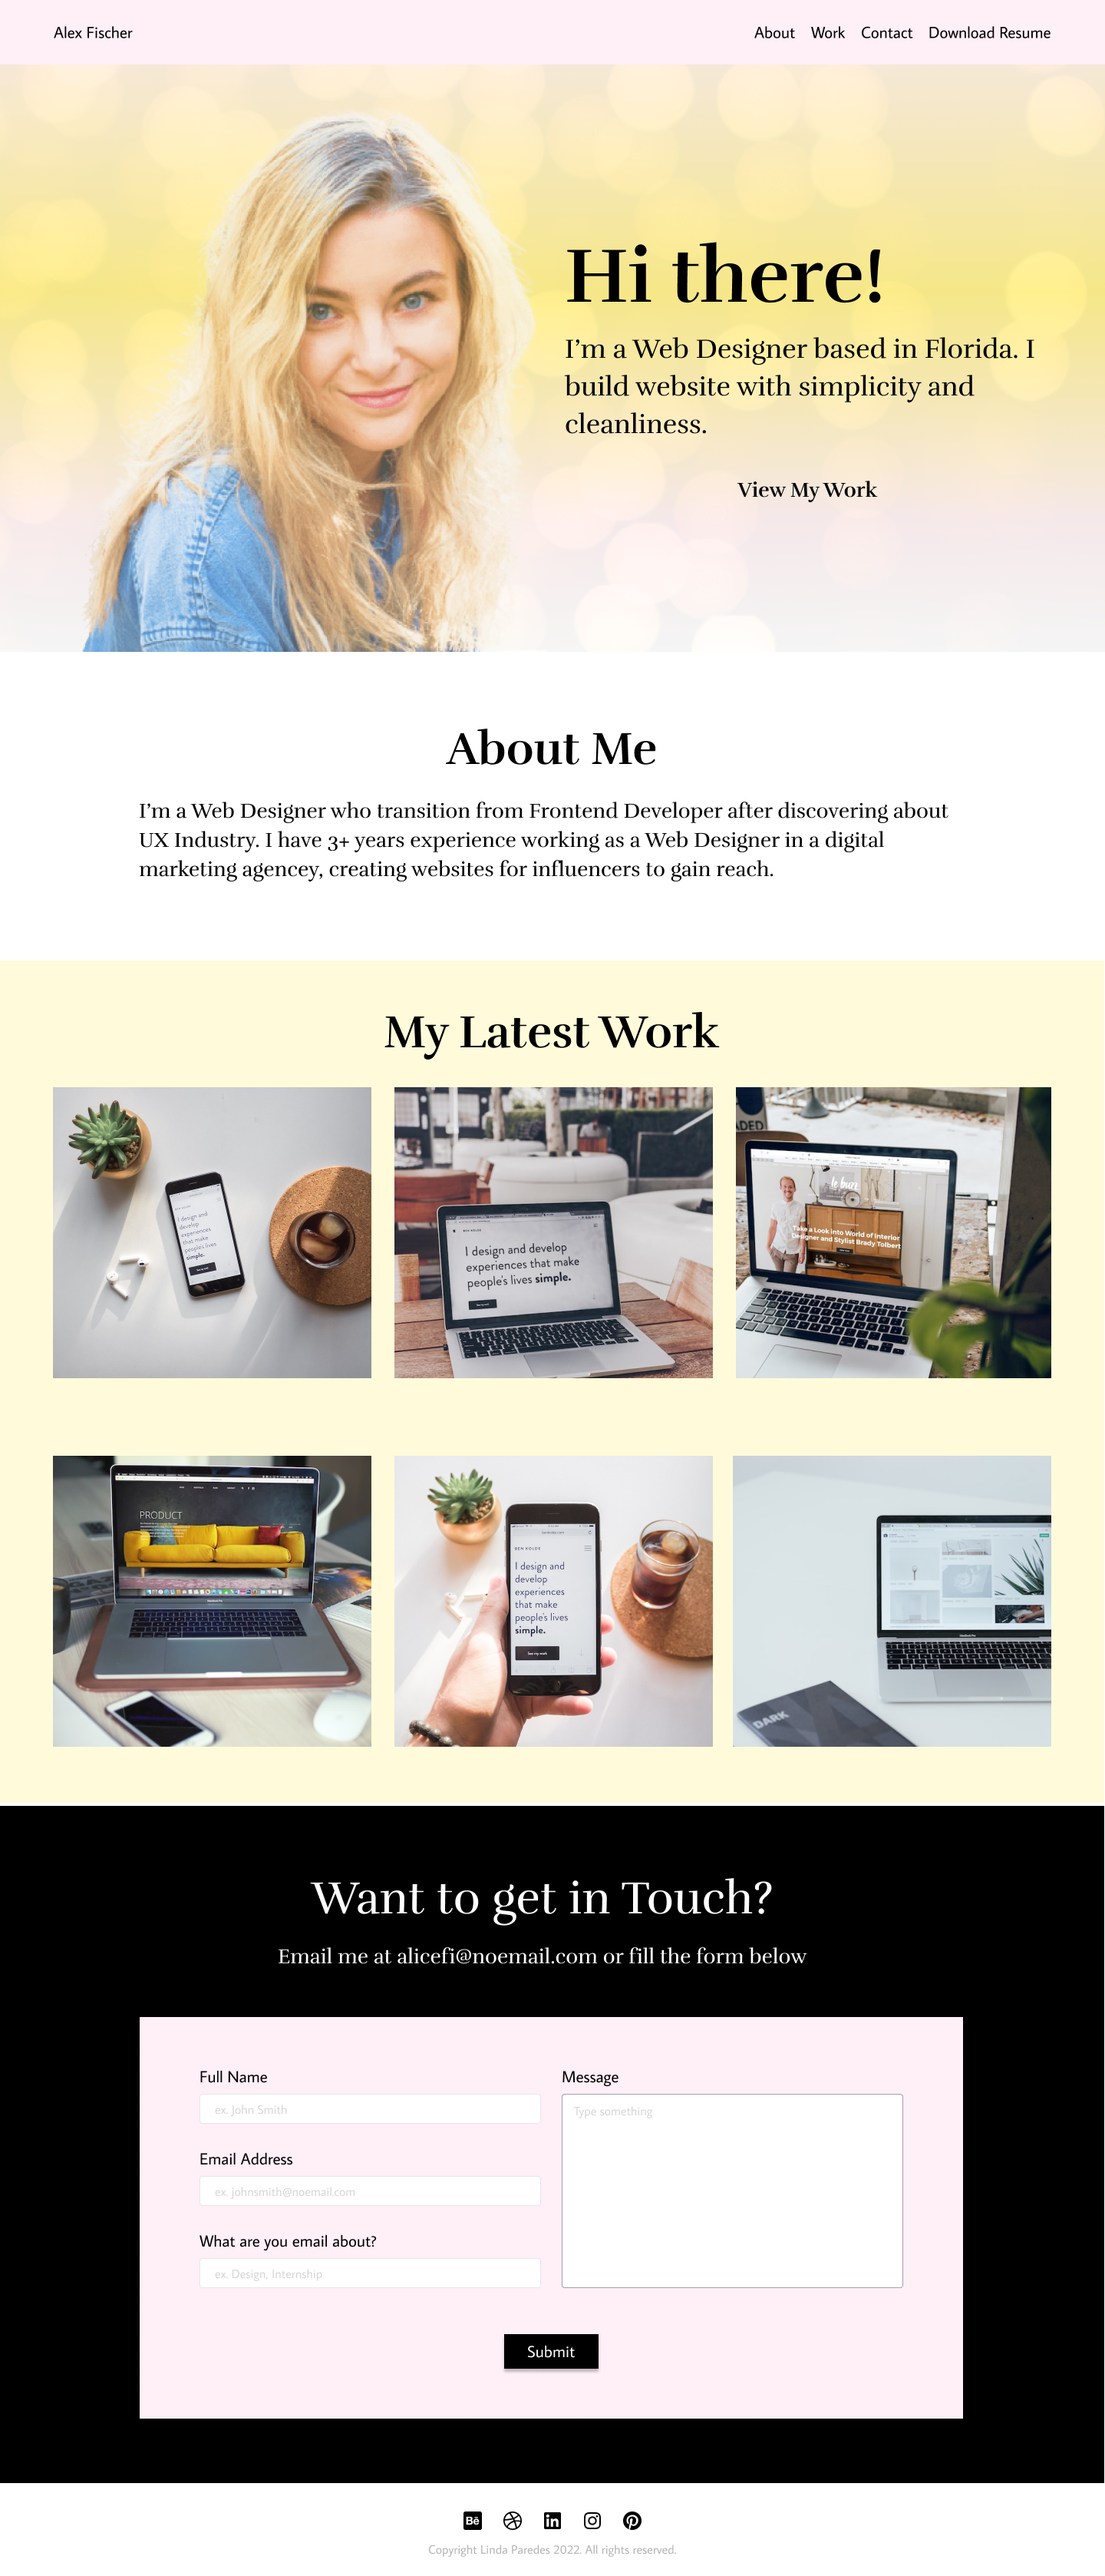
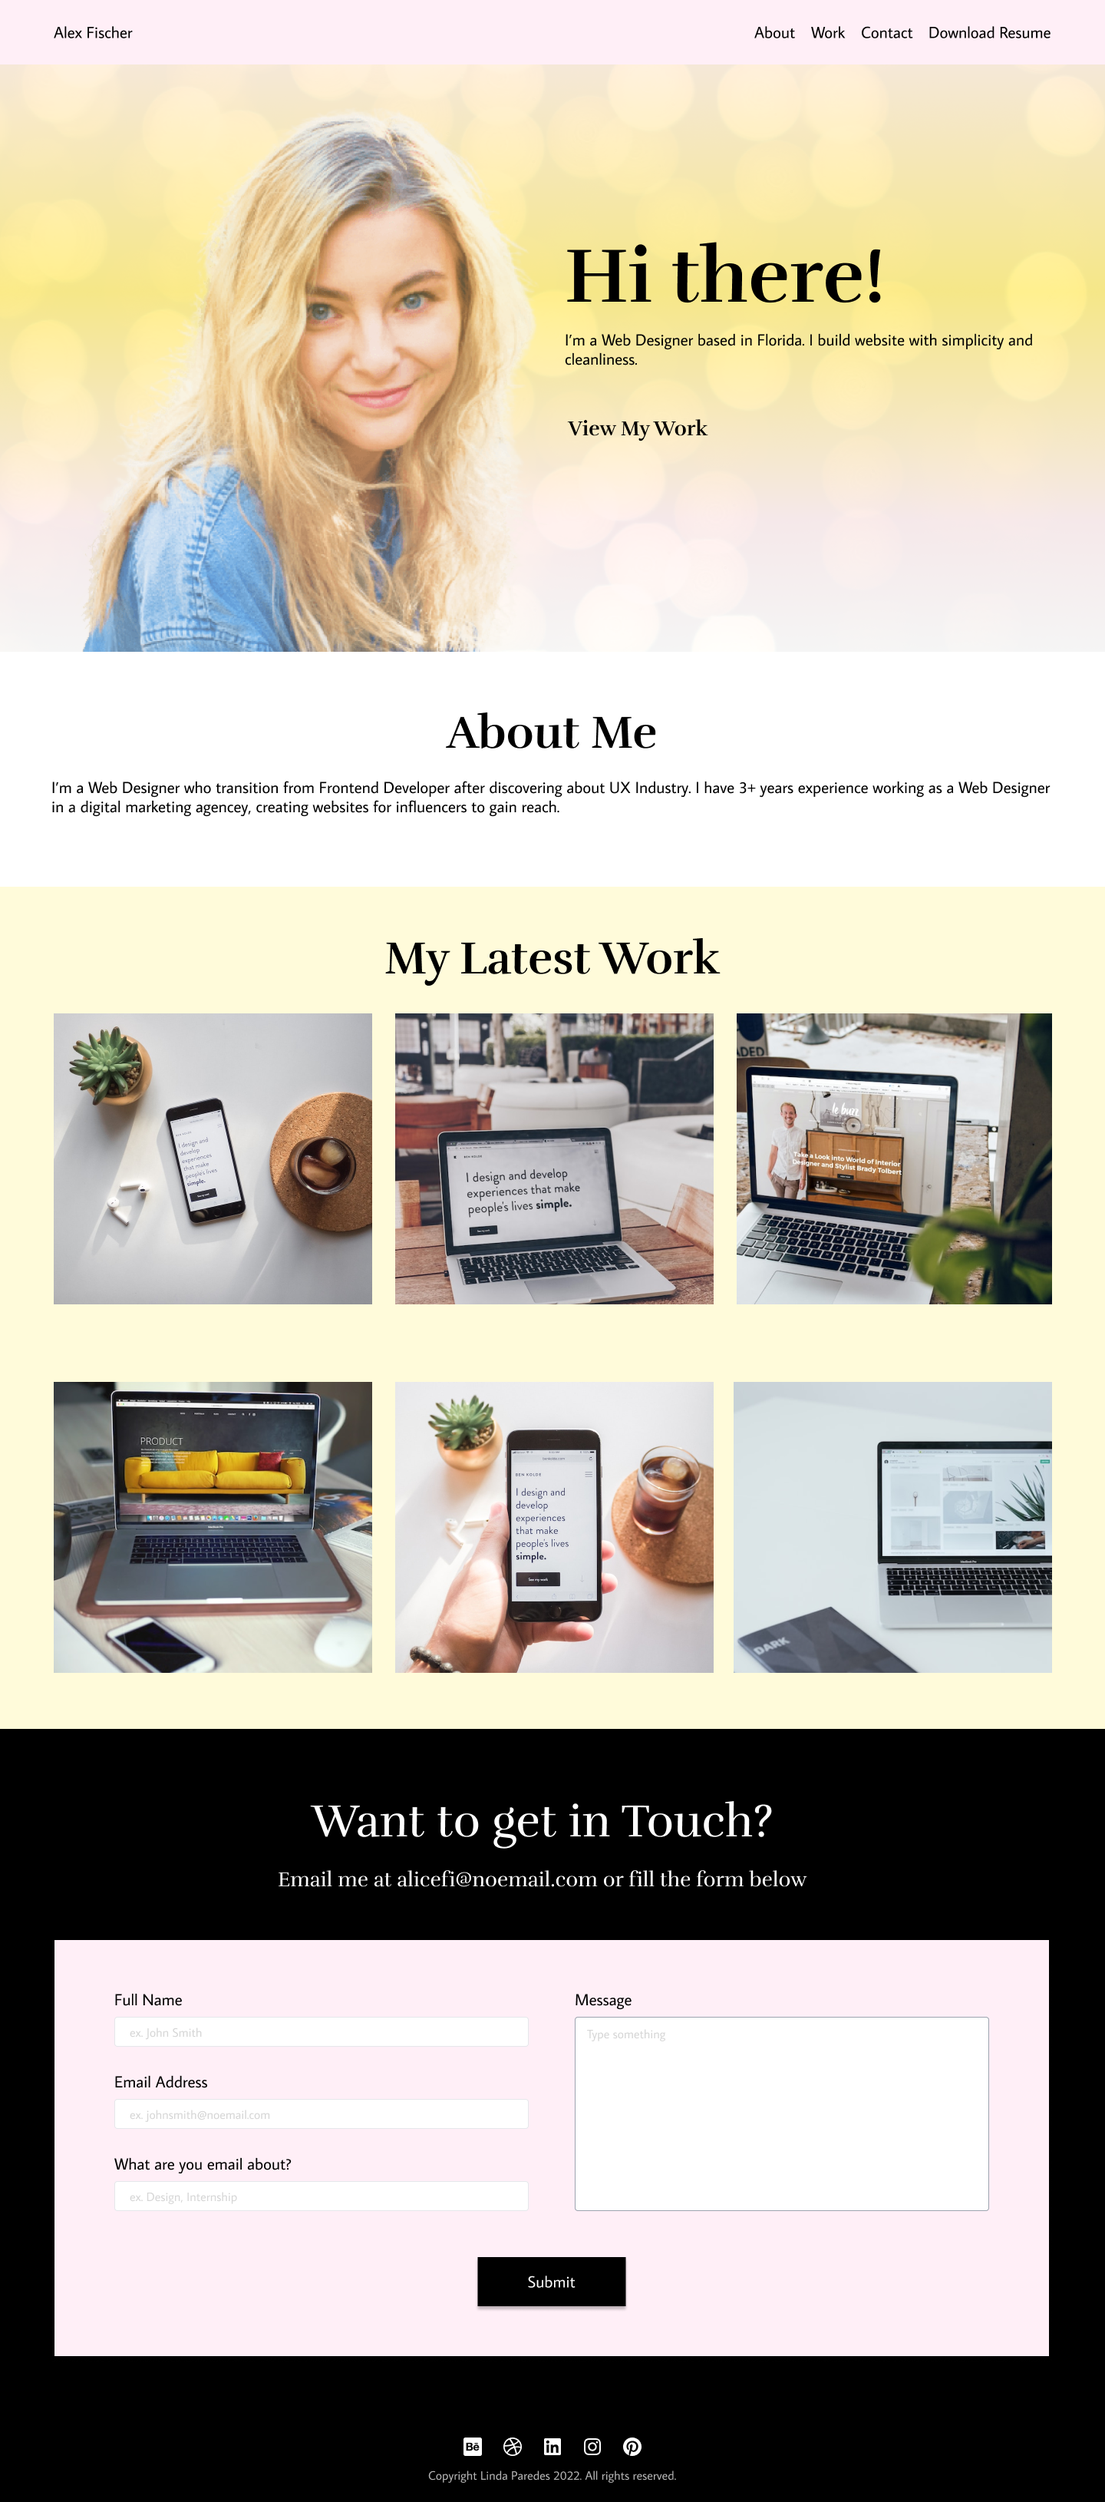
Added Responsiveness and fix minor issues in home section

Changed region(s): [[0.0, 0.031, 1.0, 1.0], [0.5, 0.093, 0.9062, 0.1859], [0.4062, 0.8987, 0.5625, 0.9297]]

diff --git a/index.html b/index.html
@@ -41,55 +41,60 @@
             </ul>
         </nav>
         
-        <main id="header">
-            <img id="myself" src="img/selfie.png"/>
-            <div id="introductions">
-                <h1>Hi there!</h1>
-                <h6>I'm a Web Designer based in Florida, US. I build websites for simplicity and cleanliness.</h6>
-                <a href="#work">View My Work</a>
-            </div>
-        </main>
-        <section id="about">
-            <h3>About Me</h3>
-            <p>Lorem ipsum dolor sit, amet consectetur adipisicing elit. Repellat ipsa officia culpa accusantium, nihil quaerat tempore nemo harum sapiente asperiores, aliquid aspernatur impedit? Facilis aut officiis ipsam ad. Corporis amet veritatis eos doloribus placeat ex fugit eligendi incidunt excepturi culpa eum officia impedit, qui accusantium explicabo animi quia? </p>
-        </section>
-        <section id="work">
-            <h3>My Latest Work</h3>
-            <div id="work-gallery">
-                <img src="./img/work1.png"/>
-                <img src="./img/work2.png"/>
-                <img src="./img/work3.png"/>
-                <img src="./img/work4.png"/>
-                <img src="./img/work5.png"/>
-                <img src="./img/work6.png"/>
-            </div> 
+        <main>
+            <section id="header">
+                <img id="myself" src="img/selfie.png"/>
+                <div id="introductions">
+                    <h1>Hi there!</h1>
+                    <p>I'm a Web Designer based in Florida, US. I build websites for simplicity and cleanliness.</p>
+                    <a href="#work">View My Work</a>
+                </div>
+               
+            </section>
             
-        </section>
-        <section id="contact">
-            <h3>Want to get in Touch?</h3>
-            <h6>Email me at <a href="mailto:alicefi@noemail.com">alicefi@noemail.com</a> or fill the form below</h6>
-            <form id="contact-form">
-                <div id="fullname" class="form-input">
-                    <label for="fname">Full Name</label>
-                    <input class="input" type="text" id="fname" name="fname" placeholder="ex. John Smith">
-                </div>
-                <div id="emailaddress" class="form-input" >
-                    <label for="email"> Email Address</label><br>
-                    <input class="input" type="email" id="email" name="email" placeholder="ex. johnsmith@noemail.com">
+            <section id="about">
+                <h3>About Me</h3>
+                <p>Lorem ipsum dolor sit, amet consectetur adipisicing elit. Repellat ipsa officia culpa accusantium, nihil quaerat tempore nemo harum sapiente asperiores, aliquid aspernatur impedit? Facilis aut officiis ipsam ad. Corporis amet veritatis eos doloribus placeat ex fugit eligendi incidunt excepturi culpa eum officia impedit, qui accusantium explicabo animi quia? </p>
+            </section>
+            <section id="work">
+                <h3>My Latest Work</h3>
+                <div id="work-gallery">
+                    <img src="./img/work1.png"/>
+                    <img src="./img/work2.png"/>
+                    <img src="./img/work3.png"/>
+                    <img src="./img/work4.png"/>
+                    <img src="./img/work5.png"/>
+                    <img src="./img/work6.png"/>
+                </div> 
                 
-                </div>
-                <div id="email-topic" class="form-input">
-                    <label for="topic">What are you emailing about?</label>
-                    <input class="input" type="text" id="topic" name="topic" placeholder="ex. Design, Internship, etc">
-
-                </div>
-                <div id="message" class="form-input">
-                    <label for="msg">Message</label><br>
-                    <textarea class="input" id="msg" name="msg" maxlength="200" placeholder="Type in your message"></textarea>
-                </div>
-                <input id="submit" type="submit" value="Submit">
-                </form>
-        </section>
+            </section>
+            <section id="contact">
+                <h3>Want to get in Touch?</h3>
+                <p>Email me at <a href="mailto:alicefi@noemail.com">alicefi@noemail.com</a> or fill the form below</p>
+                <form id="contact-form">
+                    <div id="fullname" class="form-input">
+                        <label for="fname">Full Name</label>
+                        <input class="input" type="text" id="fname" name="fname" placeholder="ex. John Smith">
+                    </div>
+                    <div id="emailaddress" class="form-input" >
+                        <label for="email"> Email Address</label><br>
+                        <input class="input" type="email" id="email" name="email" placeholder="ex. johnsmith@noemail.com">
+                    
+                    </div>
+                    <div id="email-topic" class="form-input">
+                        <label for="topic">What are you emailing about?</label>
+                        <input class="input" type="text" id="topic" name="topic" placeholder="ex. Design, Internship, etc">
+    
+                    </div>
+                    <div id="message" class="form-input">
+                        <label for="msg">Message</label><br>
+                        <textarea class="input" id="msg" name="msg" maxlength="200" placeholder="Type in your message"></textarea>
+                    </div>
+                    <input id="submit" type="submit" value="Submit">
+                    </form>
+            </section>
+        </main>
+       
 
         <footer>
             <div id="gotohome" class="link">

diff --git a/stylesheet.css b/stylesheet.css
@@ -24,7 +24,6 @@ h1,h2,h3,h4,h5,h6{
     display: block;
     font-family: var(--heading-font);
     font-weight: 700;
-    
     line-height: 120%;
 }
 
@@ -78,7 +77,8 @@ a:hover{
 /* Main Header*/
 #header{
     background: url('./img/background-cover.png');
-    background-size: contain;
+    background-size: 100% auto;
+    background-repeat: no-repeat;
     display: flex;
     flex-direction: row;
     gap:30px;
@@ -94,24 +94,22 @@ a:hover{
 }
 
 #introductions{
-    text-align: center;
+    text-align: left;
 }
 
 #introductions h1{
-    /* margin: 3em 0em; */
-    text-align: left;
+    /* margin: 0rem 0em; */
     font-size: 3.71em;
 }
 
 #introductions h6{
-    text-align: left;
     font-weight: 400;
-    /* margin: 0px 3rem 0px 0px; */
+    margin-bottom: 5rem;
 }
 
 #introductions a{
     /* display: inline; */
-    text-align: center;
+    /* margin-top: 2rem; */
     font-family: var(--heading-font);
     font-size:1.67rem;
     font-weight: 700;
@@ -154,9 +152,11 @@ a:hover{
     padding:3.33rem 6.33rem;
     text-align: center;
 }
-#contact h6{
-    font-weight: 400;
+
+#contact p{
+    margin-bottom: 2rem;
 }
+
 #contact a{
     color:white;
 }
@@ -232,7 +232,7 @@ input::placeholder,textarea::placeholder{
     grid-area: 4 / 1 / 4 / 3;
     border: 1px solid var;
     margin-top: 0.5rem;
-    padding: 0.5rem 1rem;
+    padding: 0.8rem 2rem;
     background-color: black;
     color:white;
     justify-self: center;
@@ -280,94 +280,75 @@ footer > p{
 
 /* Responsive Design */
 
-@media screen and (max-width:1030px){
-    body{
-        font-size: 14px;
+@media screen and (max-width:1020px){
+    p,a, input{
+        font-size: 16px;
     }
-    #calltoaction p{
-        font-size: 18px;
+    /* main section */
+    #introductions > h1{
+        font-size:60px;
     }
-
-    #form{
-        padding:2rem;
-        display: flex;
-        justify-content:space-evenly;
-        /* align-items:center; */
-    }
-    #submitarea h1{
-        font-size:36px;
-    }
-
-    #formarea{
-        padding: 0 0 0 18px;
+    
+    /* contact section */
+    #contact-form{
         display: flex;
         flex-direction: column;
-        flex-shrink:0;
-
     }
 
-    input[type=text], textarea{
-        padding: 10px;
-        width:100%;
-        
+    #message > textarea{
+        height: 250px;
     }
-    .forminput label,input,textarea{
-        font-size: 14px;
+    #submit{
+        width: 40%;
+        margin-top: 0.5rem;
+        padding: 0.8rem 2rem;
+        align-self: center;
     }
 }
 
-@media screen and (max-width: 560px){
-    body{
-        font-size:14px;
-    }
-
-    nav{
-        padding:1rem;
-        margin:2rem;
+@media screen and (max-width: 628px){
+    
+    /* navbar */
+    #home{
+        padding:1.19em 1.42em;
         justify-content: flex-end;
     }
 
-    .navbar{
-        margin:0;
-    }
-
-    #logo{
-        flex-grow:1;
-    }
-
-    
     .hamburger{
         display: block;
     }
 
-    .navbar a{
+    .nav-link{
         display: none;
     }
 
-    #mywork{
-        display:none;
-    }
-
-    #home{
+    /* header section */
+    #header{
+        background: url("./img/background-cover-mobile.png");
+        background-size: cover;
+        background-repeat: no-repeat;
+        max-width: 100%;
+        height: 100%;
         flex-direction: column;
+        padding:0em;
+        gap:0;
     }
-
+    #header > #myself{
+        padding: 0;
+        margin: 0;
+    }
     #myself{
-        width:100%;
+        margin: 0;
+        content: url(./img/selfie-mobile.png);
+        background: no-repeat;
+        height: 100%;
+        width: 100%;
     }
 
-    #calltoaction{
-        padding:3rem;
-        margin:0;
-    }
-
-    #calltoaction button{
-        padding: 15px;
-        margin: 10px 0px;
-        background-color: pink;
-        border:none;
-        border-radius:0;
-        width:100%;
+    #introductions{
+        background: linear-gradient(180deg, #FAEBE8 0%, rgba(255, 239, 247, 0.8) 50.52%, rgba(255, 239, 247, 0) 100%);;
+        text-align: center;
+        padding: 2rem;
     }
 
     #myownwork{
@@ -375,24 +356,18 @@ footer > p{
         flex-direction: column;
     }
 
-    #form{
-        display:flex;
-        flex-direction: column;
-        border-radius: 0;
+    /* work section */
+    #work, #about, #contact{
+        padding:2.42rem;
     }
-
-    #submitarea h1{
-        font-size:24px;
-        text-align: center;
+    #work-gallery{
+        display: flex;
+        flex-direction: column;
     }
 
     #submit{
-        width:100%;
+        width:60%;
         border-radius: 0;
-    }
-
-    #formarea{
-        width:100%;
     }
 
     #gotohome{

diff --git a/README.md b/README.md
@@ -1,9 +1,7 @@
 # Alex Fischer Portfolio
-Alex wants a single static website that shows her image, work and contact page. She wants it minimalist and simple portfolio page. 
+Alex wants a single static responsive website that shows her image, work and contact page. She wants it minimalist and simple portfolio page. 
 
-Current Version [here]()
-
-Mobile and Tablet version in the works.
+Current Version [here](https://lparedes17.github.io/AlexFischerPortfolioWebsite/)
 
 # Table of Contents
 - [First Version](#first-version-v1)
@@ -37,6 +35,6 @@ Alex is a huge fan of pink and yellow. She is a web designer.
 
 # Next Steps
 It would be nice to 
-- add functionality to the form 
-- add a button to return to the top in the footer.
-- create pages for each work 
+- add functionality to the form
+- create a modal to navigate page from hamburger icon in mobile version
+- add animation for loading and scrolling to view info
